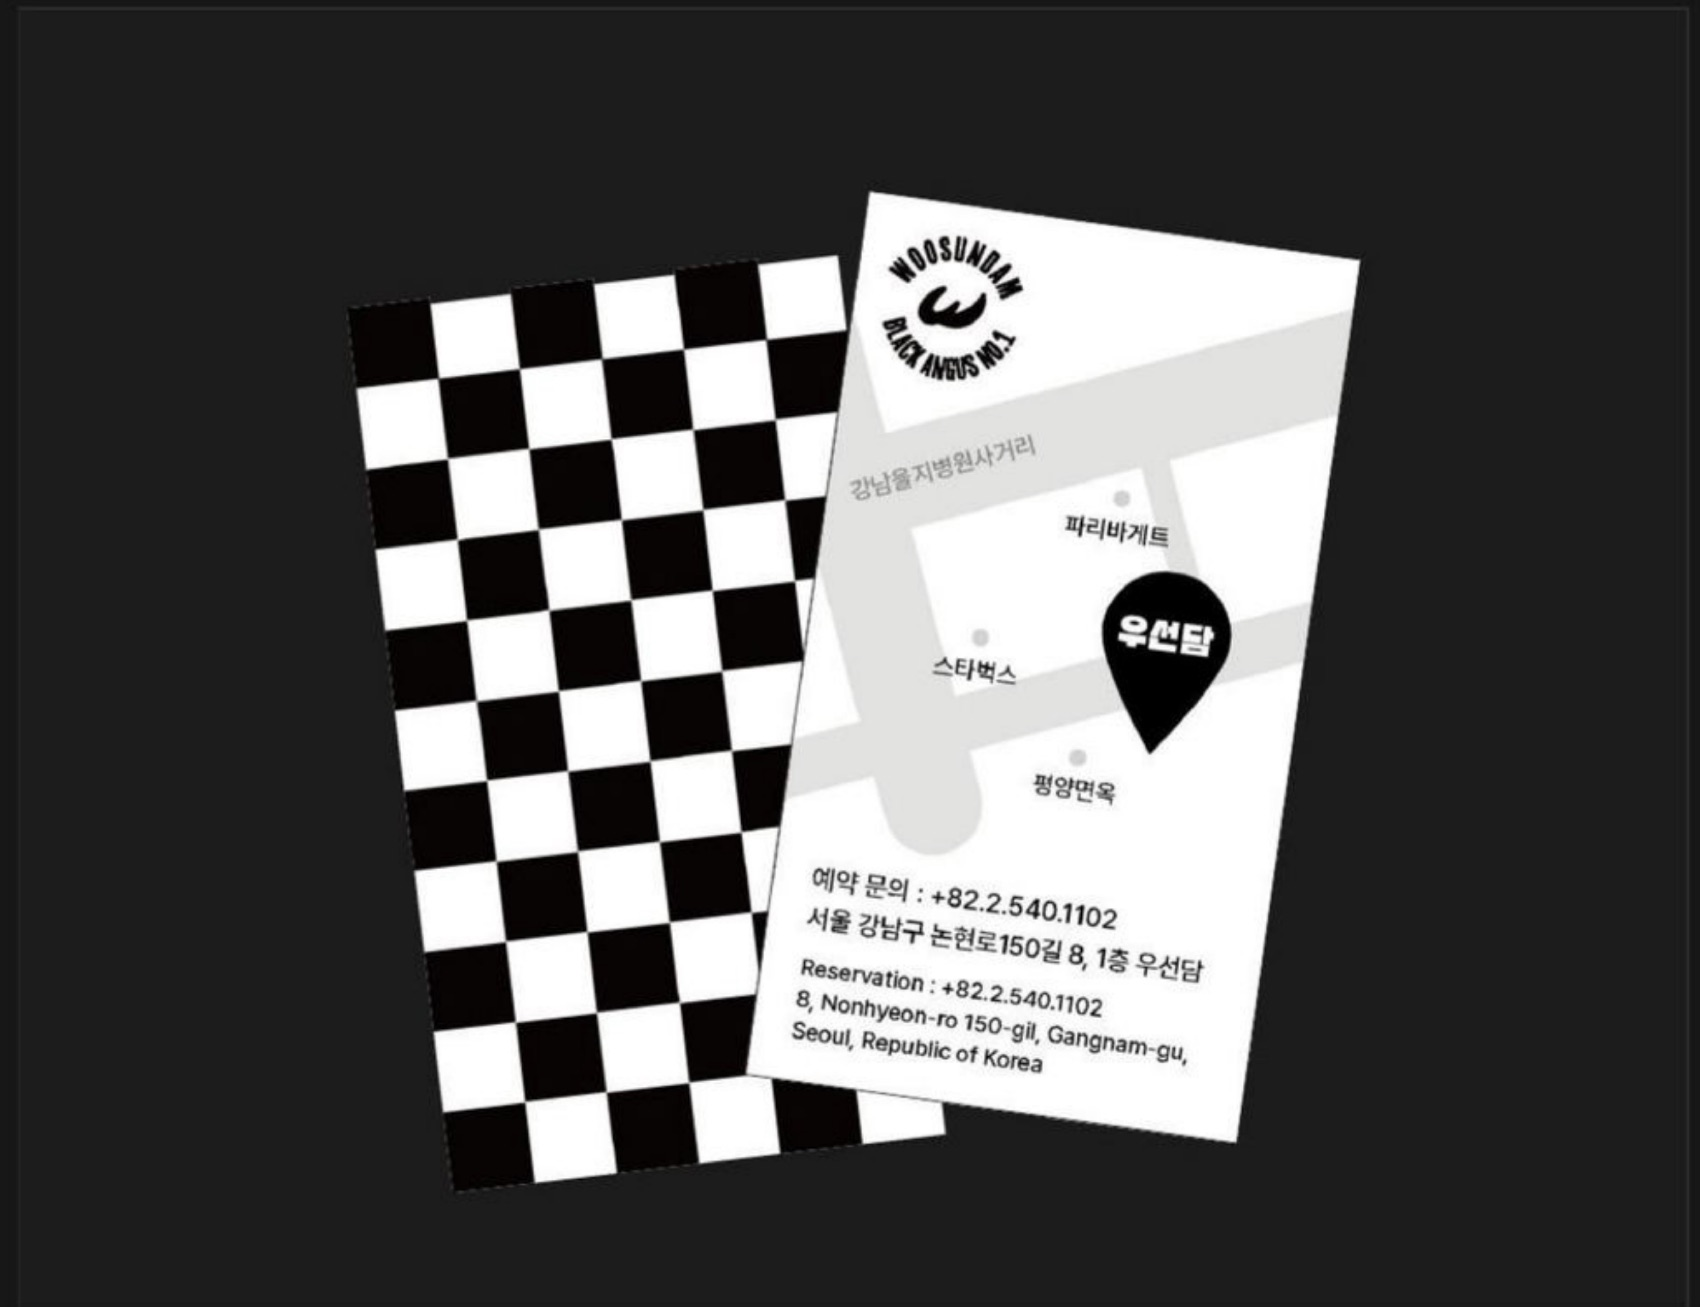
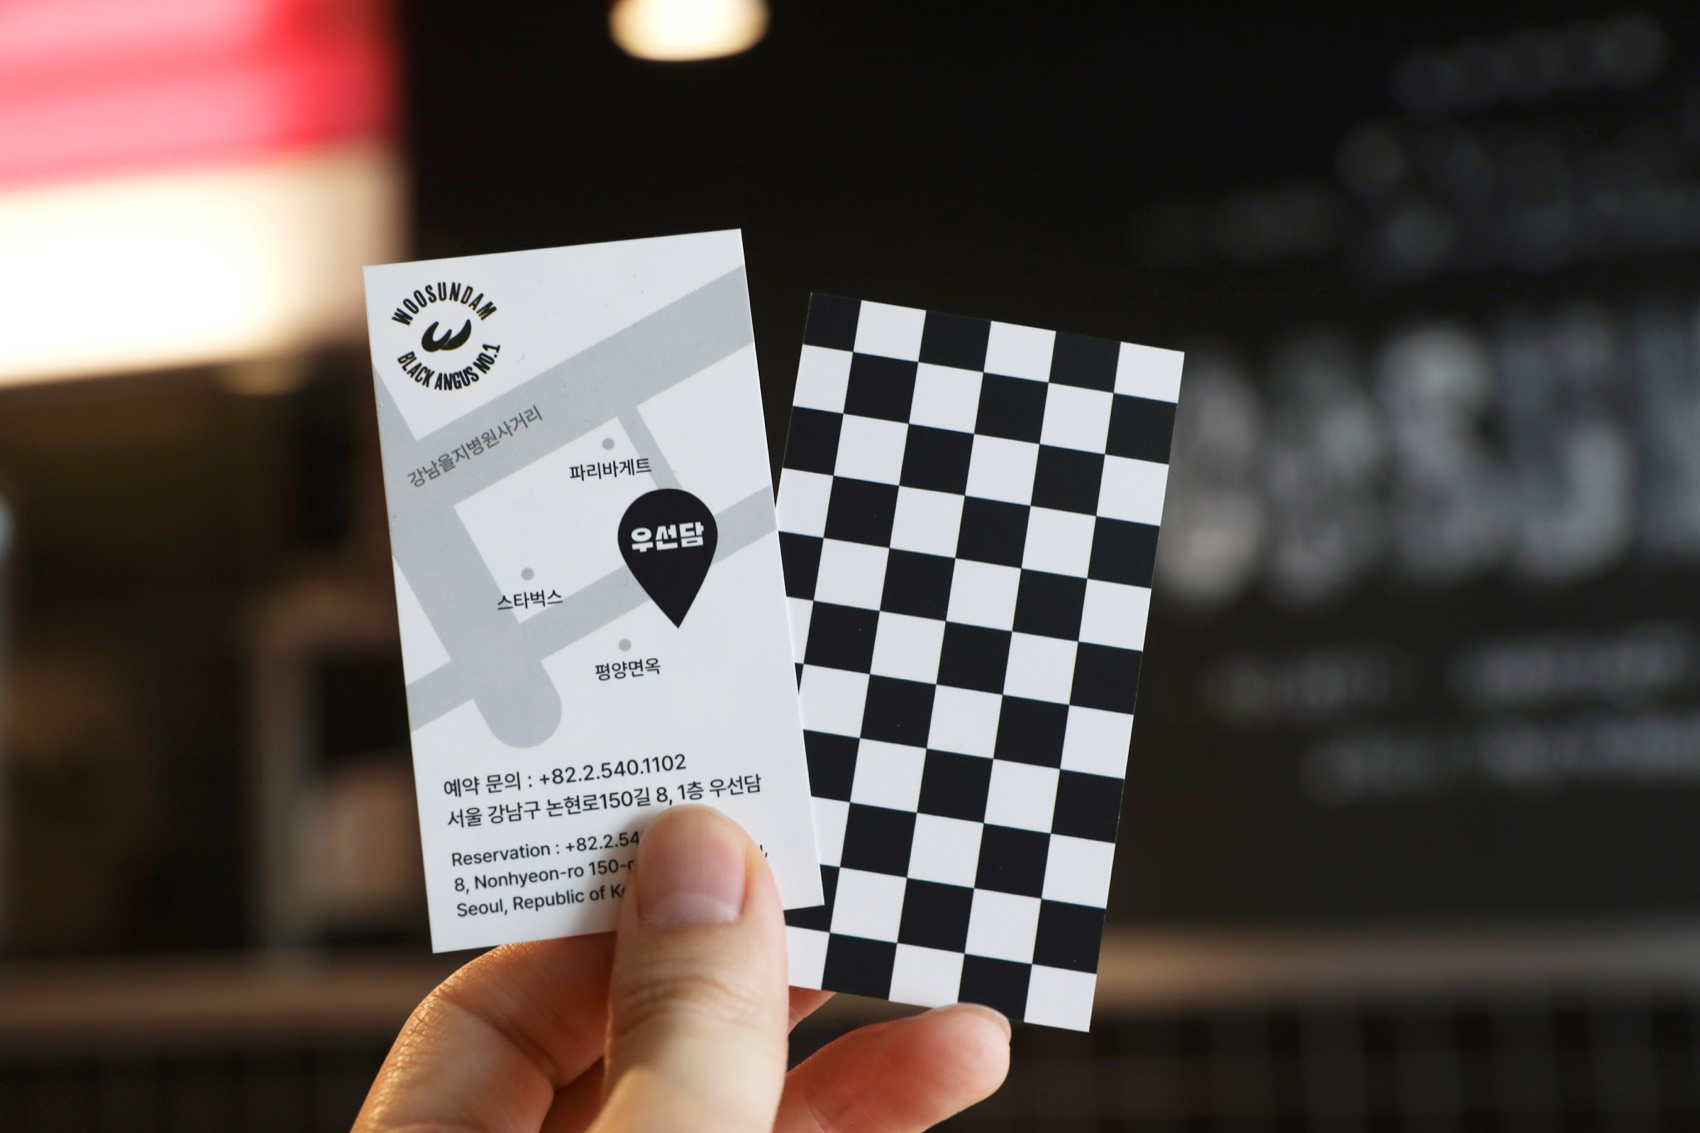
우선담 그래픽: 포스터·명함·패키지를 원본 에셋으로 교체(PDF 거친 크롭 제거)
- 포스터 시리즈: 원본 아트보드(10종 그리드, 7199px) 사용 — 워터마크·잘린 글씨 제거
- 명함: 실제 손에 든 사진 원본으로 교체
- 패키지: 네이티브 파우치 이미지로 교체
- 중복된 샘플러 포스터 제거(포스터 그리드에 포함)
- 풀폭(3n+1) 슬롯은 가로 이미지 유지

diff --git a/woosundam-graphic.html b/woosundam-graphic.html
@@ -117,14 +117,13 @@
       <figure class="g-pc reveal"><img src="images/works/woosundam-graphic/wayfinding.jpg" alt="우선담 공간 그래픽 사인"><figcaption class="g-cap">공간 그래픽 / Wayfinding</figcaption></figure>
       <figure class="g-pc reveal"><img src="images/works/woosundam-graphic/noren.jpg" alt="우선담 워드마크 노렌"><figcaption class="g-cap">노렌 / Noren</figcaption></figure>
       <figure class="g-pc reveal"><img src="images/works/woosundam-graphic/uniform.jpg" alt="우선담 유니폼 백 프린트"><figcaption class="g-cap">유니폼 / Uniform</figcaption></figure>
-      <figure class="g-pc reveal"><img src="images/works/woosundam-graphic/package.jpg" alt="우선담 패키지 파우치"><figcaption class="g-cap">패키지 / Package</figcaption></figure>
       <figure class="g-pc reveal"><img src="images/works/woosundam-graphic/posters.jpg" alt="우선담 메뉴 포스터 시리즈"><figcaption class="g-cap">포스터 시리즈 / Poster Series</figcaption></figure>
+      <figure class="g-pc reveal"><img src="images/works/woosundam-graphic/package.jpg" alt="우선담 패키지 파우치"><figcaption class="g-cap">패키지 / Package</figcaption></figure>
       <figure class="g-pc reveal"><img src="images/works/woosundam-graphic/card.jpg" alt="우선담 명함"><figcaption class="g-cap">명함 / Business Card</figcaption></figure>
       <figure class="g-pc reveal"><img src="images/works/woosundam-graphic/props.jpg" alt="우선담 집기와 테이블 사인"><figcaption class="g-cap">집기 / Collateral</figcaption></figure>
-      <figure class="g-pc reveal"><img src="images/works/woosundam-graphic/sampler-poster.jpg" alt="우선담 샘플러 메뉴 포스터"><figcaption class="g-cap">메뉴 포스터 / Menu Poster</figcaption></figure>
       <figure class="g-pc reveal"><img src="images/works/woosundam-graphic/sns1.jpg" alt="우선담 SNS 콘텐츠"><figcaption class="g-cap">SNS 콘텐츠 / Social</figcaption></figure>
-      <figure class="g-pc reveal"><img src="images/works/woosundam-graphic/menu.jpg" alt="우선담 메뉴판"><figcaption class="g-cap">메뉴판 / Menu</figcaption></figure>
       <figure class="g-pc reveal"><img src="images/works/woosundam-graphic/sns2.jpg" alt="우선담 SNS 콘텐츠"><figcaption class="g-cap">SNS 콘텐츠 / Social</figcaption></figure>
+      <figure class="g-pc reveal"><img src="images/works/woosundam-graphic/menu.jpg" alt="우선담 메뉴판"><figcaption class="g-cap">메뉴판 / Menu</figcaption></figure>
       <figure class="g-pc reveal"><img src="images/works/woosundam-graphic/sns3.jpg" alt="우선담 SNS 콘텐츠"><figcaption class="g-cap">SNS 콘텐츠 / Social</figcaption></figure>
       <figure class="g-pc reveal"><img src="images/works/woosundam-graphic/vipticket.jpg" alt="우선담 VIP 티켓"><figcaption class="g-cap">VIP 티켓 / VIP Ticket</figcaption></figure>
     </div>
